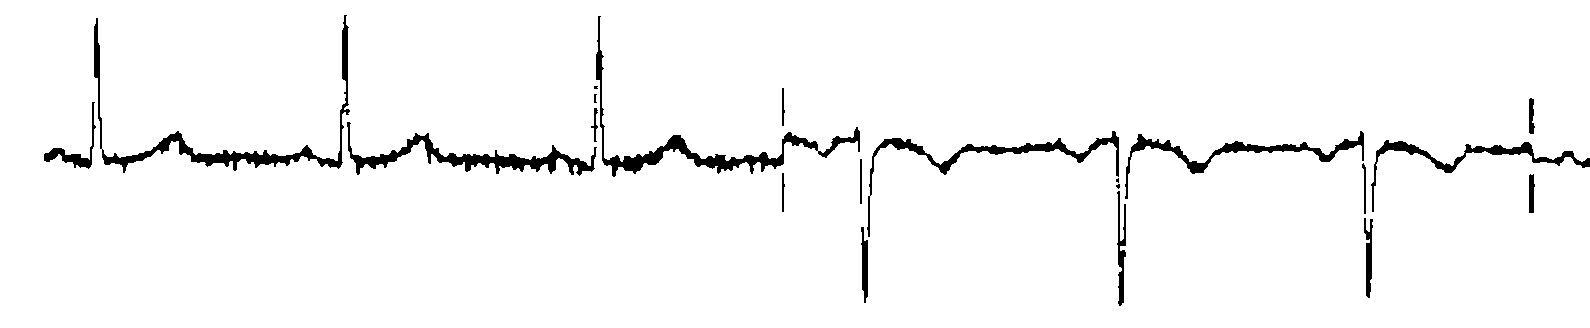
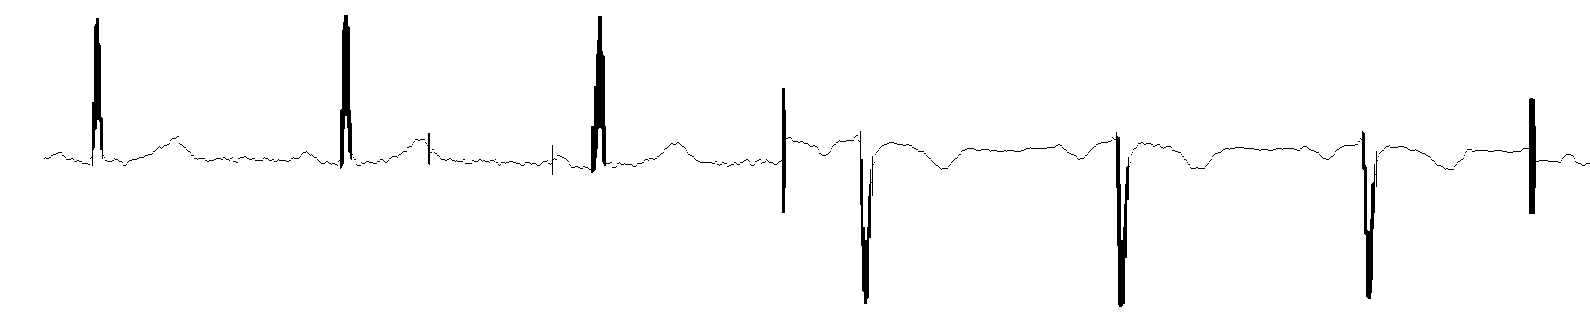
Adding more intern work

Changed region(s): [[0.0308, 0.2439, 0.7396, 0.5488], [0.7396, 0.3963, 1.0, 0.5183]]

diff --git a/Digitization.py b/Digitization.py
@@ -45,18 +45,28 @@ for i in range(len(PossibleAnnotations)):
 
 print('Final Block Lists X and Y', BLOCK_X, BLOCK_Y)
 '''
-digitize = cv2.imread('ECGSignalSnip.png') #Black background and white signal. So black pixel is [0 0 0] and white is some value greater than 200 probably. It ranges from [13 12 13] to [255 255 255]. Probably keep some high value to eliminate the noise on the edges of the signal skeleton. Or it is probably better better to use white backgrounf and black pixels ...
+digitize = cv2.imread('ECGSignalSnip.png') #Black background and white signal. So black pixel is [0 0 0] and white is some value greater than 200 probably. It ranges from [13 12 13] to [255 255 255]. Probably keep some high value to eliminate the noise on the edges of the signal skeleton. Or it is probably better better to use white background and black pixels ...
 digitize = cv2.bitwise_not(digitize)
 gray = cv2.cvtColor(digitize, cv2.COLOR_BGR2GRAY) #Much faster. Takes 2.5s in single channel as compared to 27.9s in 3 channels image
 cv2.imwrite('SingleChannelSignal.png', gray)
 start = time.time()
 thresholdValue = 10 #Will split the pixel to black or white based on this
+maxNoPeakLength = 20 #Maximum diiference that will tell no peak otherwise a peak. If less than this then no peak
 for i in range(gray.shape[1]): #Column by column scanning
-	gray[:, i] = (gray[:, i]>thresholdValue) * 255 #Thresholding. All pixels > thresholdValue are converted to white and rest to black
+    gray[:, i] = (gray[:, i]>thresholdValue) * 255 #Thresholding. All pixels > thresholdValue are converted to white and rest to black
+
+cv2.imwrite('AfterSigThresholding.png', gray)
+for i in range(gray.shape[1]):
+    Xup = None
+    Xdn = None
+    #Assuming no stray pixels other than our signal. That is all black pixels are joined together.
+    Xup = np.argmin(gray[:, i]) #First occurence of black pixel
+    Xdn = np.argmin(np.flip(gray[:, i], axis = 0)) #Last occurence of black pixel
+    #if (math.fabs(Xup - Xdn) > maxNoPeakLength):
+    #gray[Xdn: Xup, i] = 0 #Join them and make one whole black column
 
 end = time.time()
 print('Time elapsed', end - start)
 print('Shape of sig', gray.shape)
-for i in range(gray.shape[1]):
-    print(gray[:, i])
+
 cv2.imwrite('NewSig.png', gray)

diff --git a/playground.py b/playground.py
@@ -1,0 +1,45 @@
+import cv2
+import numpy as np
+from PIL import Image
+from PIL import EpsImagePlugin
+import pytesseract
+import math
+import re
+import time
+
+gray = cv2.imread('AfterSigThresholding.png')
+gray = cv2.cvtColor(gray, cv2.COLOR_BGR2GRAY) #necessary to always convert when you read from imread. IMREAd automatically makes it 3 channels
+arr = np.array([1,2,3,4,5,6,7,8,9])
+print(np.flipud(arr))
+start = time.time()
+maxNoPeakLength = 30
+kernel = np.ones((3,3),np.uint8)
+gray=cv2.dilate(cv2.bitwise_not(gray),kernel,iterations=1)
+gray = cv2.bitwise_not(gray) #Dilating to join the whole signal. Otherwise some column will exist without any black pixels
+for i in range(gray.shape[1]):
+    Xup = None
+    Xdn = None #Will take negative value of this as pixels are flipped here
+    #Xdn is negative but referes to to the down edge of image[Xdn, i] whereas Xup refers to upper edge
+    #Assuming no stray pixels other than our signal. That is all black pixels are joined together.
+    Xup = np.argmin(gray[:, i]) #First occurence of black pixel
+    Xdn = -np.argmin(np.flip(gray[:, i], axis = 0)) #Last occurence of black pixel
+    if (math.fabs(Xup + Xdn) and Xdn is not None and Xup is not None): #Adding coz Xdn is literally negative
+        gray[Xup: Xdn, i] = 0 #Joins signals if there is atleast one black pixel in the column
+
+kernel = np.ones((2, 2), np.uint8)
+gray = cv2.erode(cv2.bitwise_not(gray), kernel, iterations = 1)
+gray = cv2.bitwise_not(gray)
+cv2.imwrite('feeder.png', gray)
+for i in range(gray.shape[1]):
+    Xup = None
+    Xdn = None
+    Xup = np.argmin(gray[:, i])
+    Xdn = -np.argmin(np.flip(gray[:, i], axis = 0))
+
+    if (math.fabs(Xup - (Xdn + gray.shape[0]))<maxNoPeakLength):
+        gray[Xup: Xdn, i] = 255
+        gray[(Xup + gray.shape[0] + Xdn)//2, i] = 0
+
+end = time.time()
+cv2.imwrite('NewSig.png', gray)
+print('Time taken: ', end - start)
